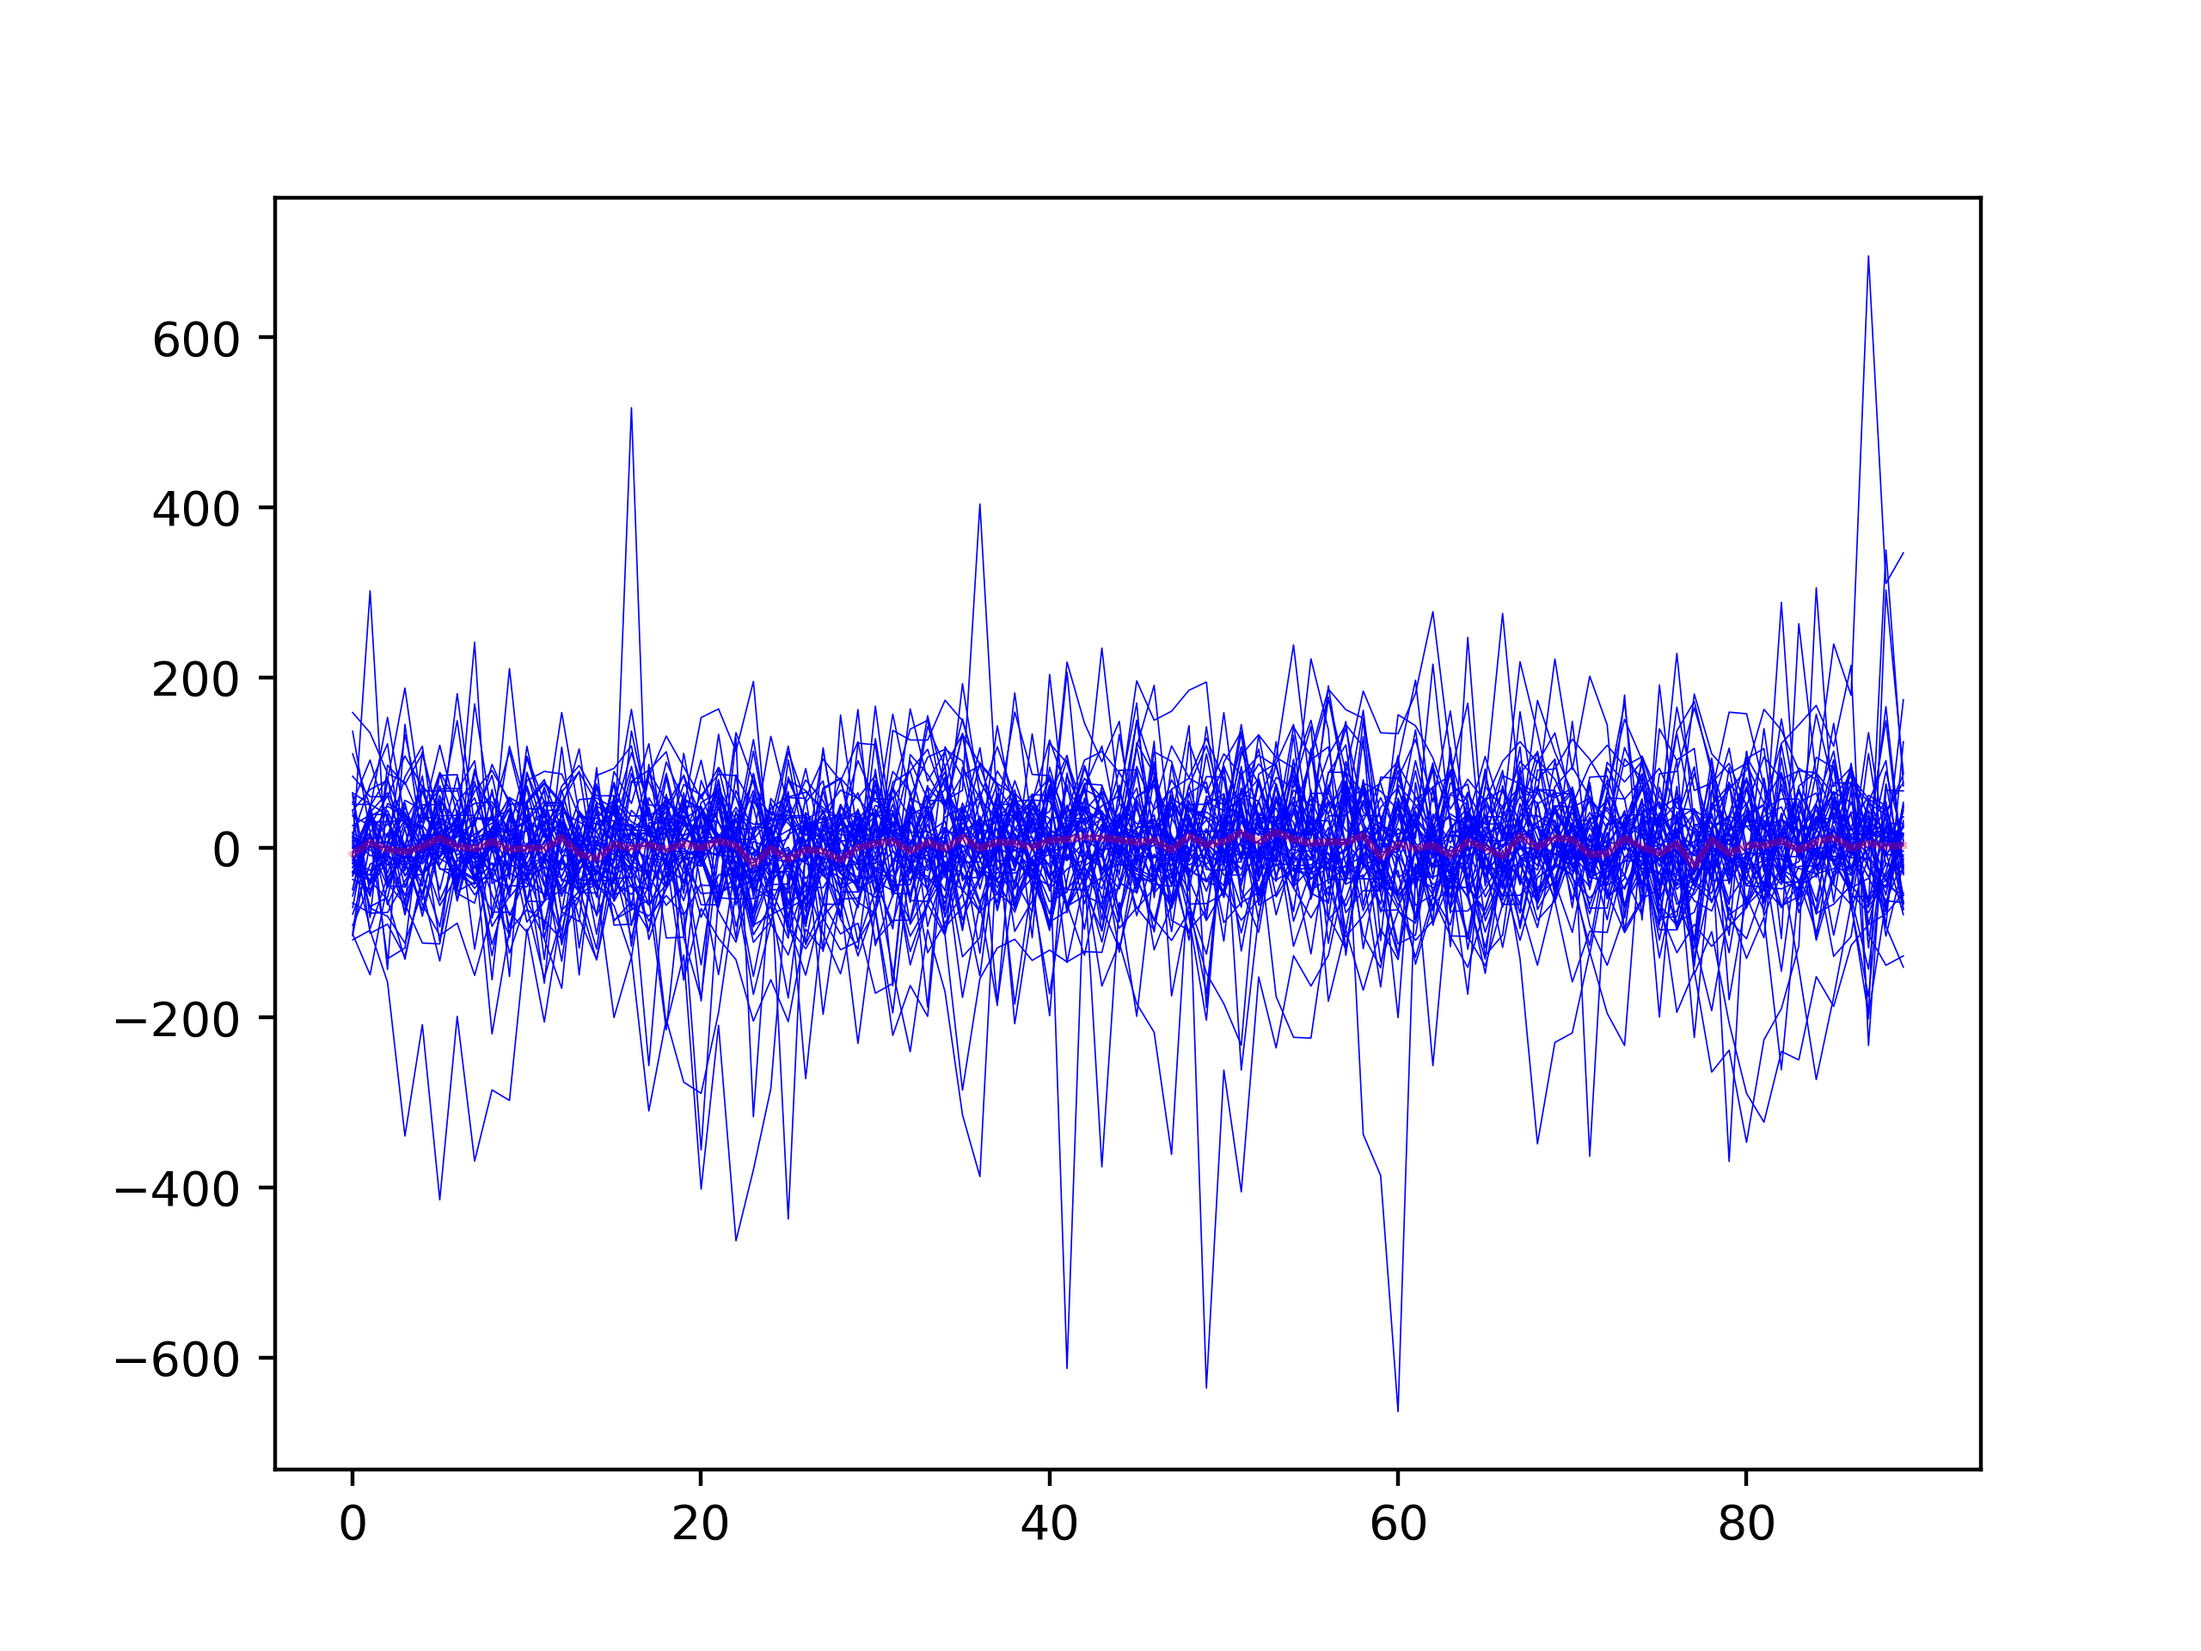
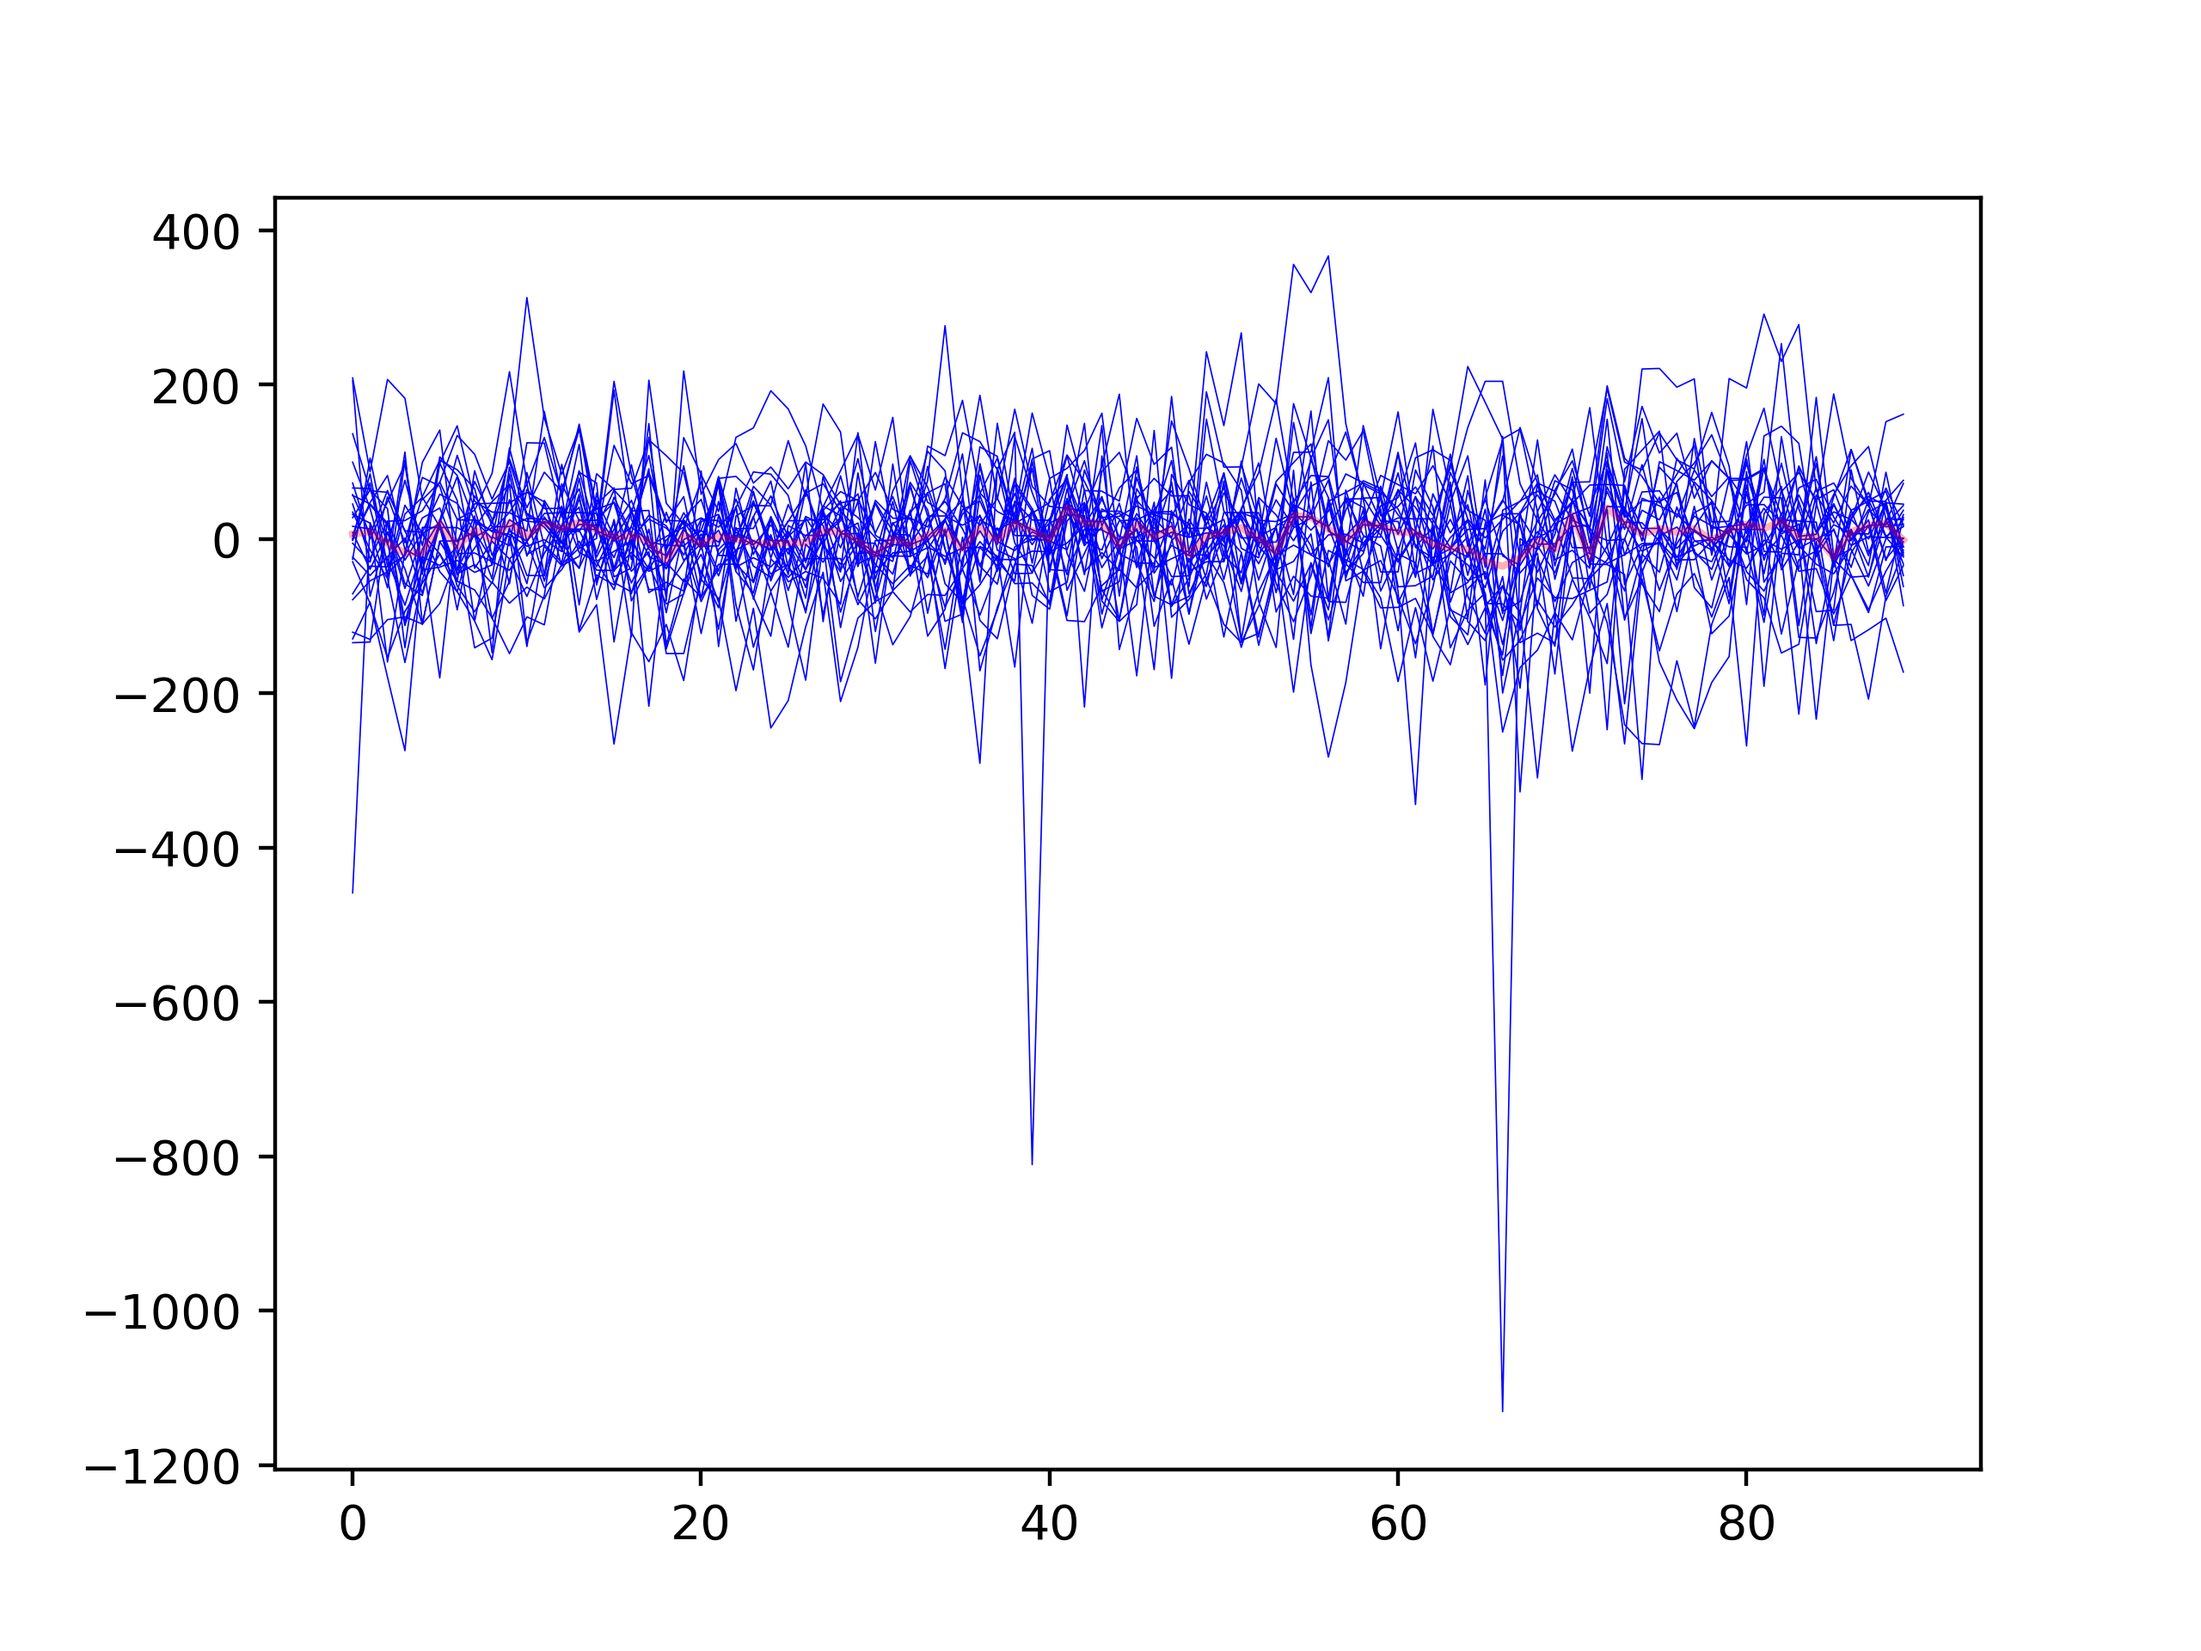
Replaced linear layer with convolutional

diff --git a/using_saved_gan.py b/using_saved_gan.py
@@ -1,0 +1,66 @@
+import os
+import sys
+import joblib
+code_path = os.path.normpath(os.getcwd())
+other_path = os.path.normpath(code_path+os.sep+os.pardir)
+model_path = os.path.normpath(other_path+os.sep+"Models"+os.sep+"GAN")
+sys.path.append(os.path.join(code_path,"GAN"))
+sys.path.append(code_path)
+sys.path.append("/home/eirith/.local/lib/python3.5/site-packages")
+from eeggan.examples.conv_lin.model import Generator
+import torch
+import numpy as np
+from torch.autograd import Variable
+import matplotlib.pyplot as plt
+
+n_z = 128
+datafreq = 30000
+n_blocks = 6
+t_multiple = 3
+
+generator = Generator(2,128) #Channels, random vector input size
+generator.train_init(alpha=1e-3,betas=(0.,0.99))
+generator.load_model(os.path.join(model_path,"Progressive0.gen"))
+i_block,fade_alpha = joblib.load(os.path.join(model_path,"Progressive0"+'.data'))
+
+generator.model.cur_block = i_block
+generator.model.alpha = fade_alpha
+
+generator.cuda()
+print("Model loaded")
+
+rng = np.random.RandomState(0)
+z_vars_im = rng.normal(0,1,size=(1000,n_z)).astype(np.float32)
+z_vars = Variable(torch.from_numpy(z_vars_im),requires_grad=False).cuda()
+batch_fake = generator(z_vars)
+
+z_vars_im_longer = rng.normal(0,1,size=(1000,n_z*t_multiple)).astype(np.float32)
+z_vars_longer = Variable(torch.from_numpy(z_vars_im_longer),requires_grad=False).cuda()
+batch_fake_longer = generator(z_vars_longer)
+
+plt.plot(batch_fake[0,0,:,0].detach().cpu().numpy())
+plt.plot(batch_fake_longer[0,0,:,0].detach().cpu().numpy()+0.5)
+plt.ylim(-1,1)
+plt.legend(["Trained length","Extended length"])
+plt.savefig("Loaded_GAN_time.png")
+plt.close()
+
+torch_fake_fft = np.swapaxes(torch.rfft(np.swapaxes(batch_fake.data.cpu(),2,3),1),2,3)
+torch_fake_fft = torch.sqrt(torch_fake_fft[:,:,:,:,0]**2+torch_fake_fft[:,:,:,:,1]**2)
+fake_amps = torch_fake_fft.data.cpu().numpy().mean(axis=0).squeeze()
+freqs_tmp = np.fft.rfftfreq(batch_fake.shape[2],d=1/(datafreq/np.power(2,n_blocks-1-i_block)))
+
+print(batch_fake.shape)
+print(batch_fake_longer.shape)
+batch_fake_longer.view(1000*t_multiple,1,batch_fake.shape[2],2)
+print(batch_fake_longer.shape)
+torch_fake_longer_fft = np.swapaxes(torch.rfft(np.swapaxes(batch_fake_longer.data.cpu(),2,3),1),2,3)
+torch_fake_longer_fft = torch.sqrt(torch_fake_longer_fft[:,:,:,:,0]**2+torch_fake_longer_fft[:,:,:,:,1]**2)
+fake_amps_longer = torch_fake_longer_fft.data.cpu().numpy().mean(axis=0).squeeze()
+freqs_tmp_longer = np.fft.rfftfreq(batch_fake_longer.shape[2],d=1/(datafreq/np.power(2,n_blocks-1-i_block)))
+
+plt.plot(freqs_tmp,fake_amps[:,0])
+plt.plot(freqs_tmp_longer,fake_amps_longer[:,0]/3)
+plt.legend(["Trained length","Extended length"])
+plt.savefig("Loaded_GAN_fft.png")
+plt.close()

diff --git a/GAN/eeggan/examples/conv_lin/run.py b/GAN/eeggan/examples/conv_lin/run.py
@@ -1,7 +1,7 @@
 #%load_ext autoreload
 #%autoreload 2
 import os
-#import joblib
+import joblib
 import sys
 #import mne
 code_path = os.path.normpath(os.getcwd()+4*(os.sep+os.pardir))
@@ -157,7 +157,7 @@ generator = generator.cuda()
 discriminator = discriminator.cuda()
 fourier_discriminator = fourier_discriminator.cuda()
 AC_discriminator = AC_discriminator.cuda()
-
+"""
 #LOAD
 try:
     generator.load_model(os.path.join(modelpath,modelname%jobid+'.gen'))
@@ -170,7 +170,7 @@ try:
 except:
     print("No model found, creating new")
     pass
-
+"""
 generator.train()
 discriminator.train()
 fourier_discriminator.train()
@@ -307,7 +307,6 @@ for i_block in range(i_block_tmp,n_blocks):
             #joblib.dump((n_epochs,n_z,n_critic,batch_size,lr),os.path.join(modelpath,modelname%jobid+'_%d.params'%i_epoch),compress=True)
             freqs_tmp = np.fft.rfftfreq(train_tmp.numpy().shape[2],d=1/(datafreq/np.power(2,n_blocks-1-i_block)))
             train_fft = np.fft.rfft(train_tmp.numpy(),axis=2)
-
             #Originally mean over channels, but removed
             train_amps = np.abs(train_fft).mean(axis=0).squeeze()#(np.real(train_fft)**2).mean(axis=3).mean(axis=0).squeeze()
 
@@ -456,7 +455,8 @@ for i_block in range(i_block_tmp,n_blocks):
             #torch.save((discriminator.state_dict(),discriminator.optimizer.state_dict(),discriminator.did_init_train),os.path.join(modelpath,modelname%jobid+'.disc'))
 
             #discriminator.save_model(os.path.join(modelpath,modelname%jobid+'.disc'))
-            #generator.save_model(os.path.join(modelpath,modelname%jobid+'.gen'))
+            generator.save_model(os.path.join(modelpath,modelname%jobid+'.gen'))
+            joblib.dump((i_block,fade_alpha),os.path.join(modelpath,modelname%jobid+'.data'),compress=True)
 
             plt.figure(figsize=(10,15))
             plt.subplot(3,2,1)

diff --git a/GAN/eeggan/examples/conv_lin/model.py b/GAN/eeggan/examples/conv_lin/model.py
@@ -137,11 +137,14 @@ def create_gen_blocks(n_chans,z_vars):
 
 	tmp_block = ProgressiveGeneratorBlock(
 								nn.Sequential(Reshape([[0],1,-1]),
-								create_conv_sequence(1,base*n_featuremaps),
-								weight_scale(nn.Conv1d(base*n_featuremaps,n_featuremaps,1,padding=0),
+								weight_scale(nn.Conv1d(1,n_featuremaps,1001,padding=500),
 														gain=calculate_gain('leaky_relu')),
-								nn.LeakyReLU(0.2),
-								PixelNorm()
+												nn.LeakyReLU(0.2),
+								weight_scale(nn.Conv1d(n_featuremaps,n_featuremaps,5,padding=2),
+														gain=calculate_gain('leaky_relu')),
+												nn.LeakyReLU(0.2),
+												Reshape([[0],n_featuremaps,-1]),
+												create_conv_sequence(n_featuremaps,n_featuremaps),
 								),
 								create_out_sequence(n_chans,n_featuremaps),
 								create_fade_sequence(2)
